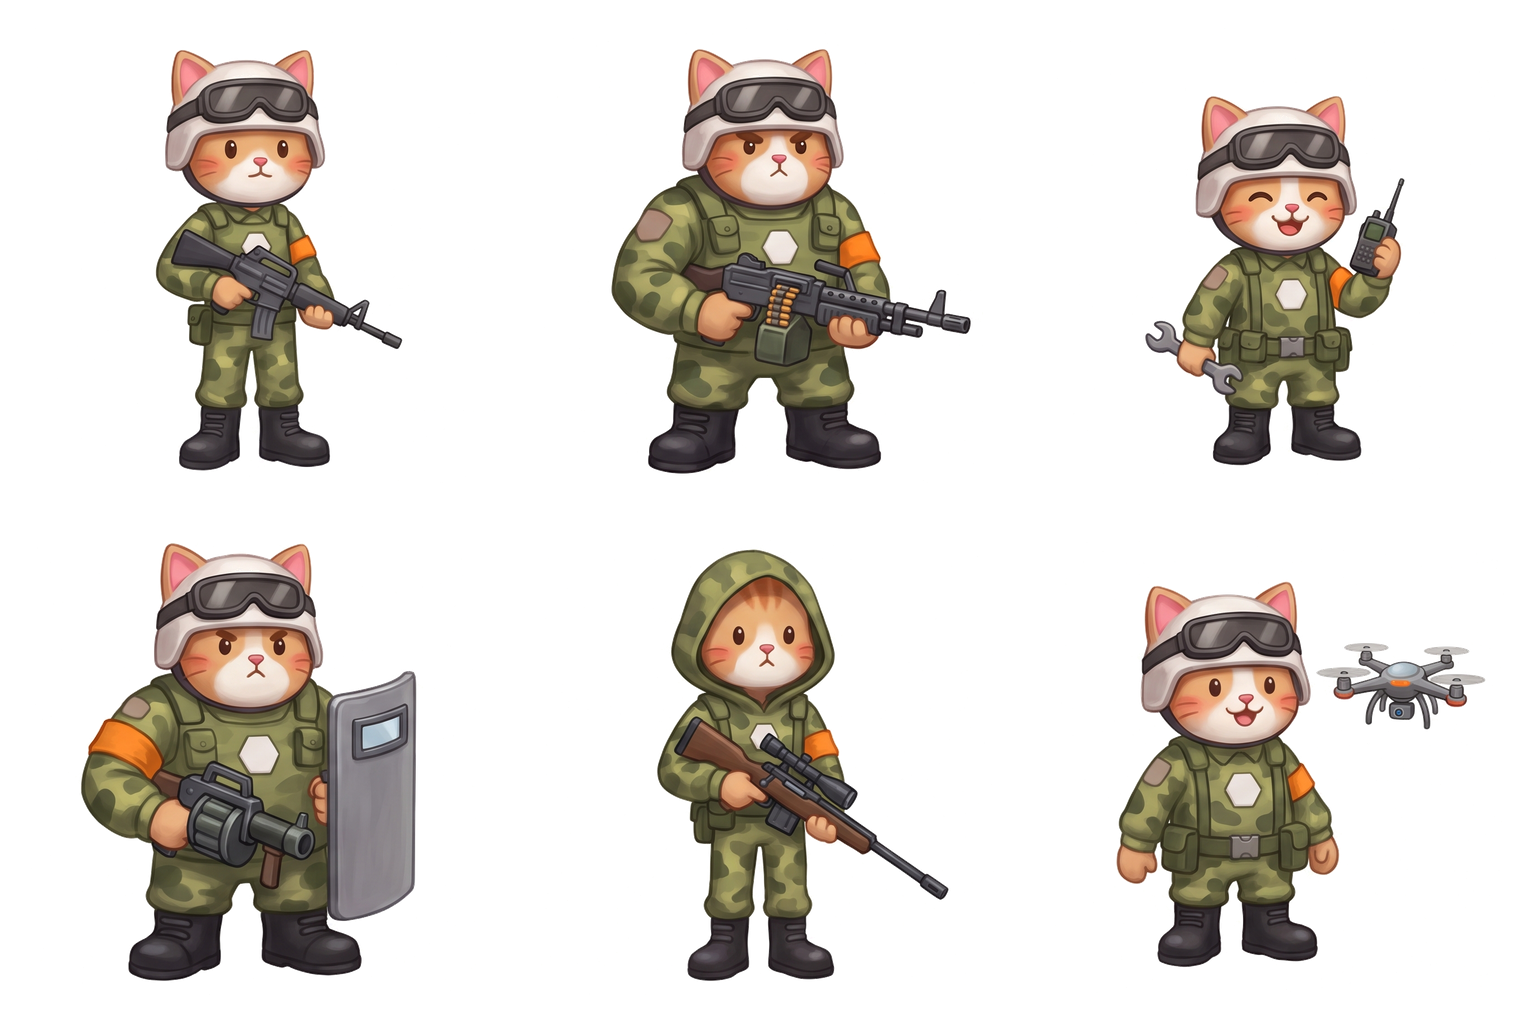
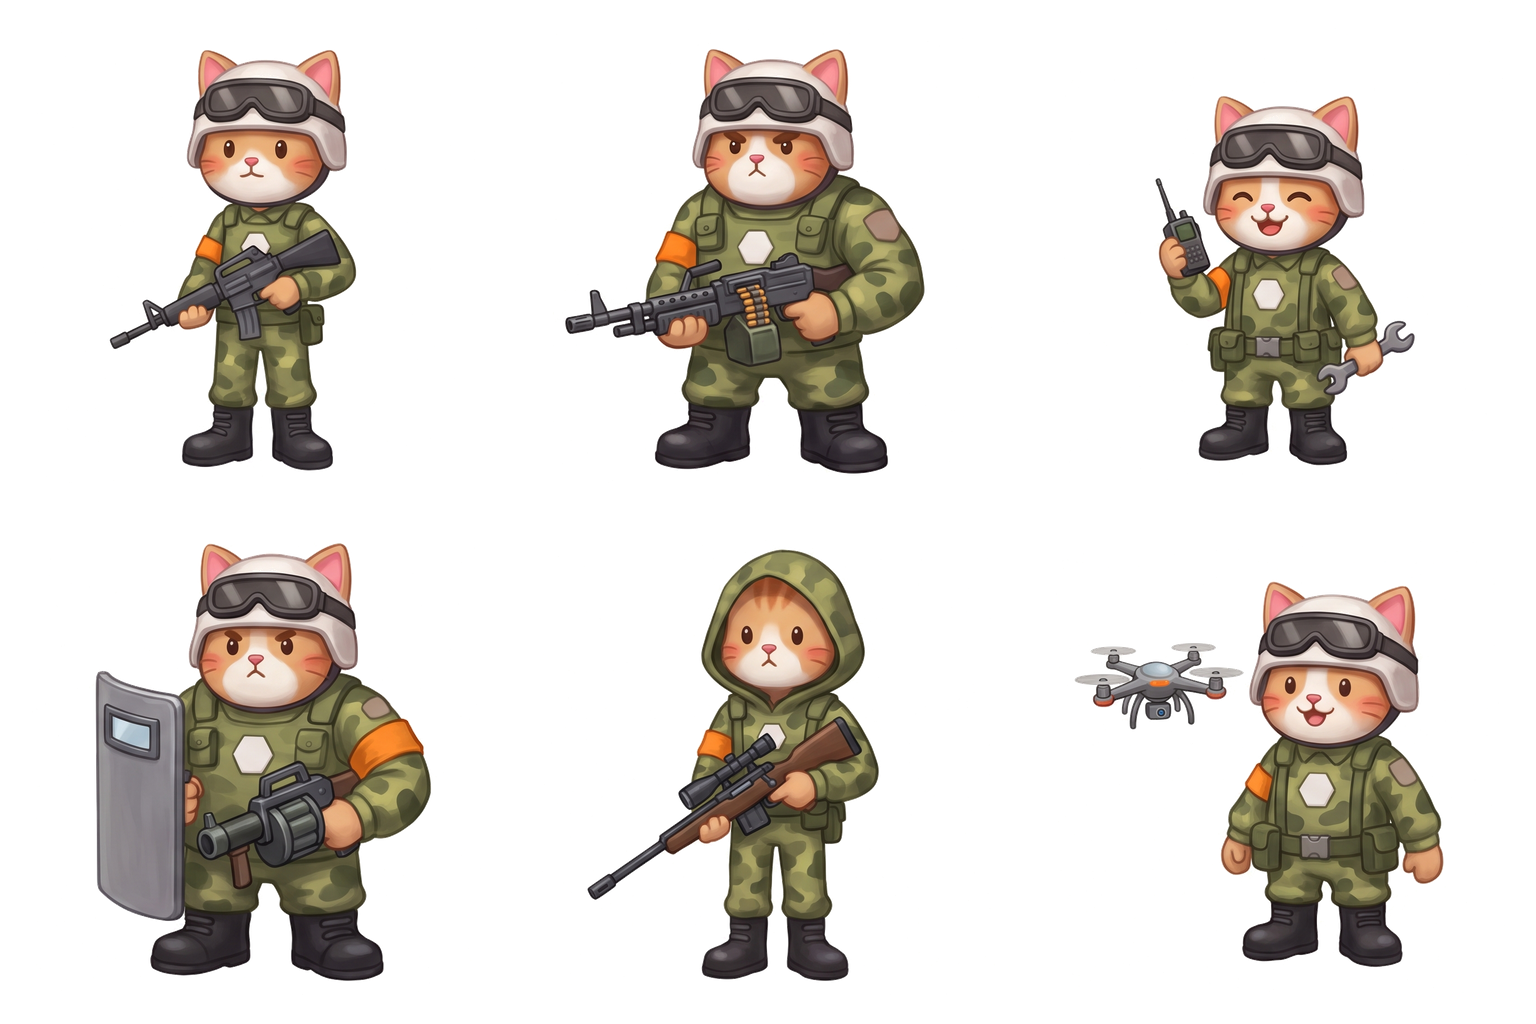
Портреты и миниатюры классов отражены; задание на перерисовку v17 с рендерами игровой модели

diff --git a/art_requests/class_portraits_v17/README.md b/art_requests/class_portraits_v17/README.md
@@ -1,0 +1,38 @@
+# Задание: перерисовать портреты и миниатюры классов (v17)
+
+Ты работаешь с игрой War Cats. Нужно перерисовать два атласа классов так, чтобы пропорции котов совпадали с игровой 3D-моделью. Сейчас на картинках коты вытянутые, с маленькой головой. В игре они чиби: огромная голова в шлеме, короткое плотное тело, короткие ноги.
+
+## Что лежит в папке
+- `model_refs/` — рендеры игровой модели, 1024×1024, для каждого класса три ракурса: `<класс>_three_quarter.png`, `<класс>_front.png`, `<класс>_side.png`. Это главный референс пропорций и формы.
+- `current/portraits_v16.png`, `current/miniatures_v16.png` — текущие атласы. Это референс стиля, цвета, снаряжения и ракурса. Пропорции в них неправильные.
+
+## Что сделать
+Два файла PNG в `output/`:
+
+| Файл | Размер | Сетка | Фон |
+|---|---|---|---|
+| `output/portraits.png` | 1536×1024 | 3 столбца × 2 строки, ячейка 512×512 | мягко размытый фон (лагерь, мастерская, лес), как в current |
+| `output/miniatures.png` | 1536×1024 | 3 × 2, ячейка 512×512 | прозрачный (альфа), фигура целиком с ног до ушей |
+
+Порядок ячеек (слева направо, сверху вниз), одинаковый в обоих файлах:
+
+1. `recruit` — новобранец, автомат (model_refs: recruit_*)
+2. `gunner` — пулемётчик, пулемёт с лентой (gunner_*)
+3. `driver` — водитель-механик, гаечный ключ и рация (driver_*; в модели пистолет, рисуй ключ и рацию как в current)
+4. `heavy` — штурмовик, щит и гранатомёт (heavy_*)
+5. `marksman` — снайпер, капюшон и снайперская винтовка (marksman_*)
+6. `engineer` — инженер, дрон в руках (engineer_*)
+
+## Правила
+- Пропорции как в model_refs: голова со шлемом занимает 40–45% высоты фигуры, ширина шлема примерно равна ширине плеч с руками, ноги короткие, ступни крупные.
+- Стиль и снаряжение как в current: мягкий рисованный 3D, рыжие коты, белый шлем с кошачьими ушами, тёмный визор, оливковая форма с крупным камуфляжем, оранжевые повязки, белый шестиугольник на груди.
+- Ракурс три четверти. Оружие и корпус развёрнуты так же, как в current: ствол направлен в левую сторону картинки.
+- Каждая фигура целиком внутри своей ячейки, с отступом не меньше 24 px. Ничего не заходит в соседнюю ячейку. Портреты обрезаются примерно по колени, миниатюры показывают фигуру полностью.
+- Без текста, рамок, логотипов и интерфейса.
+- Один и тот же кот во всех шести ячейках, отличаются только снаряжение и капюшон снайпера.
+
+## Сдача
+Положи два файла в `output/` и коротко допиши в конец этого README, чем генерировал и с какими промптами. Игровые файлы не трогай: в игру атласы подключит отдельный агент.
+
+## Для агента, который будет подключать
+Скопировать `output/*.png` в `assets/illustrations/gpt_image_2_5/portraits/v16/` (имена `portraits.png`, `miniatures.png`), проверить размер 1536×1024 и альфу миниатюр, открыть в окне класс-галерею и диалог хаба. Код (`scripts/ui/class_gallery.gd`) режет атлас 3×2 без изменений.
